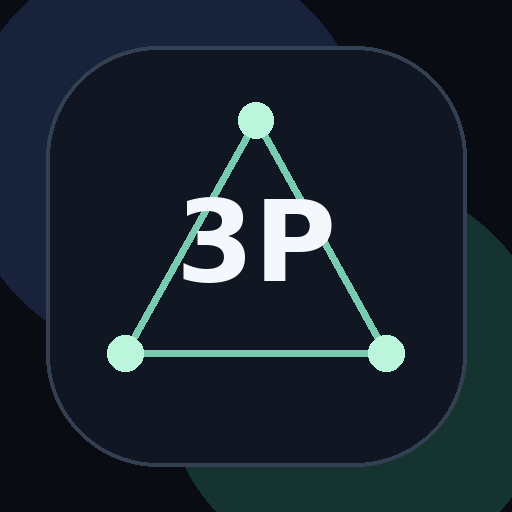
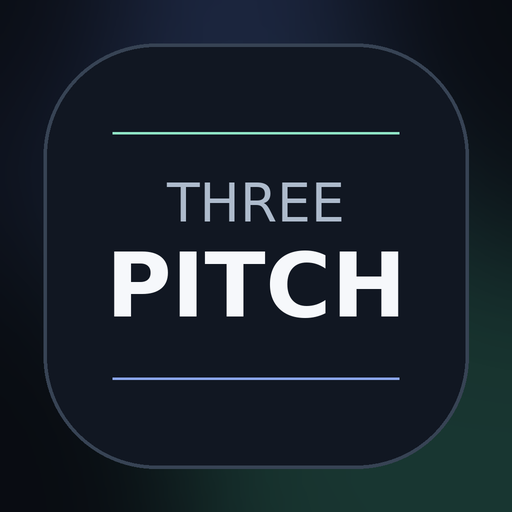
Add files via upload

diff --git a/style.css b/style.css
@@ -1,2 +1,8 @@
-:root{color-scheme:dark;--bg:#080a0f;--panel:rgba(20,25,35,.84);--line:rgba(255,255,255,.1);--line2:rgba(255,255,255,.22);--text:#f7f8fb;--muted:#929cad;--accent:#a9f0d2;--ink:#07110d;--shadow:0 28px 90px rgba(0,0,0,.42)}
-*{box-sizing:border-box}html{min-height:100%;background:var(--bg)}body{margin:0;min-height:100dvh;color:var(--text);font-family:-apple-system,BlinkMacSystemFont,"Segoe UI","Hiragino Sans","Yu Gothic UI",sans-serif;background:radial-gradient(circle at 15% 8%,rgba(136,167,255,.19),transparent 30%),radial-gradient(circle at 90% 92%,rgba(169,240,210,.13),transparent 34%),linear-gradient(150deg,#07090e,#111725 54%,#080a10);overscroll-behavior:none}button{font:inherit;color:inherit}.app{width:min(1120px,100%);min-height:100dvh;margin:auto;padding:max(24px,env(safe-area-inset-top)) clamp(14px,3.4vw,38px) max(26px,env(safe-area-inset-bottom));display:grid;grid-template-columns:minmax(0,1.15fr) minmax(0,.85fr);grid-template-areas:"brand brand" "chord melody" "chord result";gap:16px;align-content:center}.brand{grid-area:brand;display:flex;align-items:center;gap:16px;padding:0 4px 2px}.mini-logo{width:72px;height:72px;flex:none;border:1px solid var(--line2);border-radius:22px;background:linear-gradient(145deg,rgba(255,255,255,.11),rgba(255,255,255,.02)),rgba(255,255,255,.025);box-shadow:inset 0 1px 0 rgba(255,255,255,.1),var(--shadow);position:relative;display:grid;place-items:center;overflow:hidden}.mini-logo b{z-index:3;font-size:20px;letter-spacing:-.08em}.mini-logo i{position:absolute;width:6px;height:6px;border-radius:50%;background:var(--accent);box-shadow:0 0 18px rgba(169,240,210,.75)}.mini-logo i:nth-child(1){top:15px;left:50%;transform:translateX(-50%)}.mini-logo i:nth-child(2){bottom:15px;left:16px}.mini-logo i:nth-child(3){bottom:15px;right:16px}.mini-logo:before,.mini-logo:after{content:"";position:absolute;height:1px;width:42px;top:34px;left:15px;background:linear-gradient(90deg,transparent,rgba(169,240,210,.65),transparent)}.mini-logo:before{transform:rotate(60deg)}.mini-logo:after{transform:rotate(-60deg)}.brand-copy p{margin:0 0 5px;color:var(--accent);font-size:9px;font-weight:850;letter-spacing:.24em}.brand-copy h1{margin:0;font-size:clamp(30px,4.6vw,47px);line-height:.92;letter-spacing:-.05em}.brand-copy span{display:block;margin-top:8px;color:var(--muted);font-size:11px;letter-spacing:.17em}.control-card,.result-card{border:1px solid var(--line);border-radius:25px;background:linear-gradient(145deg,rgba(255,255,255,.075),rgba(255,255,255,.018)),var(--panel);box-shadow:inset 0 1px 0 rgba(255,255,255,.08),var(--shadow);backdrop-filter:blur(22px);-webkit-backdrop-filter:blur(22px)}.control-card{padding:clamp(17px,3vw,25px)}.chord-card{grid-area:chord}.melody-card{grid-area:melody}.section-title{display:flex;gap:12px;align-items:center;margin-bottom:17px}.section-title>span{width:35px;height:35px;display:grid;place-items:center;border:1px solid var(--line);border-radius:11px;background:rgba(255,255,255,.055);color:var(--accent);font-size:10px;font-weight:900}.section-title h2{margin:0;font-size:16px;letter-spacing:.13em}.section-title p{margin:3px 0 0;color:var(--muted);font-size:11px}.label{margin:0 0 9px;color:var(--muted);font-size:9px;font-weight:900;letter-spacing:.18em}.notes-grid{display:grid;grid-template-columns:repeat(6,minmax(0,1fr));gap:8px}.note-button,.choice-button,.decoration-button{border:1px solid var(--line);background:rgba(255,255,255,.035);border-radius:13px;cursor:pointer;-webkit-tap-highlight-color:transparent;transition:transform .11s ease,border-color .12s ease,background .12s ease,color .12s ease,box-shadow .12s ease}.note-button{min-height:46px;font-weight:800;font-size:13px}.choice-button{min-height:41px;padding:0 10px;font-size:11px;font-weight:780}.decoration-button{min-height:36px;padding:0 10px;font-size:10px;font-weight:760}.note-button:active,.choice-button:active,.decoration-button:active{transform:scale(.96)}.note-button:hover,.choice-button:hover,.decoration-button:hover{border-color:var(--line2)}.selected{color:var(--ink);border-color:rgba(169,240,210,.82);background:linear-gradient(135deg,#cef9e8,#96e6c4);box-shadow:0 10px 28px rgba(111,225,181,.18)}.split-row{display:grid;grid-template-columns:.72fr 1.28fr;gap:14px;padding-top:17px;margin-top:17px;border-top:1px solid var(--line)}.choice-grid{display:grid;gap:8px}.base-grid{grid-template-columns:repeat(2,minmax(0,1fr))}.shape-grid{grid-template-columns:repeat(3,minmax(0,1fr))}.decoration-label{padding-top:17px;margin-top:17px;border-top:1px solid var(--line)}.decoration-grid{display:grid;grid-template-columns:repeat(5,minmax(0,1fr));gap:7px}.summary{margin-top:17px;min-height:48px;padding:11px 14px;display:flex;align-items:center;justify-content:space-between;gap:12px;border:1px solid var(--line);border-radius:15px;background:rgba(0,0,0,.16)}.summary strong{white-space:nowrap;font-size:16px}.summary span{color:var(--muted);text-align:right;font-size:11px;line-height:1.4}.result-card{grid-area:result;min-height:270px;padding:24px;display:grid;place-items:center;align-content:center;position:relative;overflow:hidden;background:radial-gradient(circle at 50% 38%,rgba(169,240,210,.18),transparent 34%),linear-gradient(145deg,rgba(255,255,255,.08),rgba(255,255,255,.015)),rgba(27,34,47,.94)}.result-card:after{content:"";position:absolute;inset:16px;border:1px solid rgba(169,240,210,.12);border-radius:18px;pointer-events:none}.result-kicker{z-index:1;color:var(--muted);font-size:11px;font-weight:800;letter-spacing:.12em}.result-note{z-index:1;margin:8px 0 2px;font-size:clamp(76px,13vw,130px);line-height:.9;font-weight:900;letter-spacing:-.08em;text-shadow:0 0 42px rgba(169,240,210,.2)}.rule-chip{z-index:1;padding:5px 10px;border:1px solid rgba(169,240,210,.22);border-radius:999px;color:var(--accent);background:rgba(169,240,210,.06);font-size:9px;font-weight:850;letter-spacing:.14em}.maybe{z-index:1;width:min(420px,100%);margin-top:20px;padding-top:15px;border-top:1px solid var(--line);text-align:center}.maybe>span{display:block;margin-bottom:9px;color:var(--muted);font-size:10px;font-weight:800;letter-spacing:.12em}.maybe-notes{display:flex;flex-wrap:wrap;justify-content:center;gap:7px;min-height:32px}.maybe-note{min-width:36px;height:32px;padding:0 10px;display:inline-grid;place-items:center;border:1px solid var(--line);border-radius:10px;background:rgba(255,255,255,.045);color:#d7dce5;font-size:12px;font-weight:800}.maybe-empty{color:rgba(255,255,255,.28);font-size:18px;line-height:32px}@media(max-width:760px){.app{grid-template-columns:1fr;grid-template-areas:"brand" "chord" "melody" "result";align-content:start}.mini-logo{width:62px;height:62px;border-radius:19px}.brand-copy h1{font-size:32px}.notes-grid{grid-template-columns:repeat(4,minmax(0,1fr))}.split-row{grid-template-columns:1fr}.decoration-grid{grid-template-columns:repeat(3,minmax(0,1fr))}.result-card{min-height:255px}}@media(max-width:370px){.notes-grid{grid-template-columns:repeat(3,minmax(0,1fr))}.decoration-grid{grid-template-columns:repeat(2,minmax(0,1fr))}.summary{align-items:flex-start;flex-direction:column}.summary span{text-align:left}}@media(prefers-reduced-motion:reduce){*{transition:none!important}}
+
+:root{color-scheme:dark;--bg:#080a0f;--panel:rgba(20,25,35,.84);--line:rgba(255,255,255,.1);--line2:rgba(255,255,255,.22);--text:#f7f8fb;--muted:#929cad;--accent:#a9f0d2;--accent2:#88a7ff;--ink:#07110d;--shadow:0 28px 90px rgba(0,0,0,.42)}
+*{box-sizing:border-box}html{min-height:100%;background:var(--bg)}body{margin:0;min-height:100dvh;color:var(--text);font-family:-apple-system,BlinkMacSystemFont,"Segoe UI","Hiragino Sans","Yu Gothic UI",sans-serif;background:radial-gradient(circle at 15% 8%,rgba(136,167,255,.19),transparent 30%),radial-gradient(circle at 90% 92%,rgba(169,240,210,.13),transparent 34%),linear-gradient(150deg,#07090e,#111725 54%,#080a10);overscroll-behavior:none}button{font:inherit;color:inherit}.app{width:min(1120px,100%);min-height:100dvh;margin:auto;padding:max(24px,env(safe-area-inset-top)) clamp(14px,3.4vw,38px) max(26px,env(safe-area-inset-bottom));display:grid;grid-template-columns:minmax(0,1.15fr) minmax(0,.85fr);grid-template-areas:"brand brand" "chord melody" "chord result";gap:16px;align-content:center}.brand{grid-area:brand;display:flex;align-items:center;gap:16px;padding:0 4px 2px}.mini-logo{width:72px;height:72px;flex:none;border:1px solid var(--line2);border-radius:22px;background:linear-gradient(145deg,rgba(255,255,255,.11),rgba(255,255,255,.02)),rgba(255,255,255,.025);box-shadow:inset 0 1px 0 rgba(255,255,255,.1),var(--shadow);position:relative;display:grid;place-content:center;text-align:center;overflow:hidden}.mini-logo span,.mini-logo strong{position:relative;z-index:2;display:block}.mini-logo span{color:var(--muted);font-size:8px;font-weight:850;letter-spacing:.18em}.mini-logo strong{margin-top:4px;color:var(--text);font-size:15px;line-height:.92;font-weight:900;letter-spacing:-.035em}.mini-logo:before,.mini-logo:after{content:"";position:absolute;left:14px;right:14px;height:1px;background:linear-gradient(90deg,transparent,rgba(169,240,210,.58),transparent)}.mini-logo:before{top:17px}.mini-logo:after{bottom:17px}.brand-copy p{margin:0 0 5px;color:var(--accent);font-size:9px;font-weight:850;letter-spacing:.24em}.brand-copy h1{margin:0;font-size:clamp(30px,4.6vw,47px);line-height:.92;letter-spacing:-.05em}.brand-copy span{display:block;margin-top:8px;color:var(--muted);font-size:11px;letter-spacing:.17em}.control-card,.result-card{border:1px solid var(--line);border-radius:25px;background:linear-gradient(145deg,rgba(255,255,255,.075),rgba(255,255,255,.018)),var(--panel);box-shadow:inset 0 1px 0 rgba(255,255,255,.08),var(--shadow);backdrop-filter:blur(22px);-webkit-backdrop-filter:blur(22px)}.control-card{padding:clamp(17px,3vw,25px)}.chord-card{grid-area:chord}.melody-card{grid-area:melody}.section-title{display:flex;gap:12px;align-items:center;margin-bottom:17px}.section-title>span{width:35px;height:35px;display:grid;place-items:center;border:1px solid var(--line);border-radius:11px;background:rgba(255,255,255,.055);color:var(--accent);font-size:10px;font-weight:900}.section-title h2{margin:0;font-size:16px;letter-spacing:.13em}.section-title p{margin:3px 0 0;color:var(--muted);font-size:11px}.label{margin:0 0 9px;color:var(--muted);font-size:9px;font-weight:900;letter-spacing:.18em}.notes-grid{display:grid;grid-template-columns:repeat(6,minmax(0,1fr));gap:8px}.note-button,.choice-button,.decoration-button{border:1px solid var(--line);background:rgba(255,255,255,.035);border-radius:13px;cursor:pointer;-webkit-tap-highlight-color:transparent;transition:transform .11s ease,border-color .12s ease,background .12s ease,color .12s ease,box-shadow .12s ease}.note-button{min-height:46px;font-weight:800;font-size:13px}.choice-button{min-height:41px;padding:0 10px;font-size:11px;font-weight:780}.decoration-button{min-height:36px;padding:0 10px;font-size:10px;font-weight:760}.note-button:active,.choice-button:active,.decoration-button:active{transform:scale(.96)}.note-button:hover,.choice-button:hover,.decoration-button:hover{border-color:var(--line2)}.selected{color:var(--ink);border-color:rgba(169,240,210,.82);background:linear-gradient(135deg,#cef9e8,#96e6c4);box-shadow:0 10px 28px rgba(111,225,181,.18)}.split-row{display:grid;grid-template-columns:.72fr 1.28fr;gap:14px;padding-top:17px;margin-top:17px;border-top:1px solid var(--line)}.choice-grid{display:grid;gap:8px}.base-grid{grid-template-columns:repeat(2,minmax(0,1fr))}.shape-grid{grid-template-columns:repeat(3,minmax(0,1fr))}.decoration-label{padding-top:17px;margin-top:17px;border-top:1px solid var(--line)}.decoration-grid{display:grid;grid-template-columns:repeat(5,minmax(0,1fr));gap:7px}.summary{margin-top:17px;min-height:48px;padding:11px 14px;display:flex;align-items:center;justify-content:space-between;gap:12px;border:1px solid var(--line);border-radius:15px;background:rgba(0,0,0,.16)}.summary strong{white-space:nowrap;font-size:16px}.summary span{color:var(--muted);text-align:right;font-size:11px;line-height:1.4}
+.result-card{grid-area:result;min-height:310px;padding:clamp(20px,3vw,28px);display:grid;place-items:center;align-content:center;position:relative;overflow:hidden;background:radial-gradient(circle at 28% 36%,rgba(169,240,210,.17),transparent 28%),radial-gradient(circle at 72% 36%,rgba(136,167,255,.15),transparent 28%),linear-gradient(145deg,rgba(255,255,255,.08),rgba(255,255,255,.015)),rgba(27,34,47,.94)}.result-card:after{content:"";position:absolute;inset:16px;border:1px solid rgba(169,240,210,.12);border-radius:18px;pointer-events:none}.result-grid{position:relative;z-index:1;width:min(560px,100%);display:grid;grid-template-columns:1fr 1px 1fr;gap:clamp(16px,4vw,34px);align-items:center}.harmony-result{min-width:0;display:grid;justify-items:center;text-align:center}.result-divider{width:1px;height:128px;background:linear-gradient(transparent,var(--line2),transparent)}.result-kicker{color:var(--muted);font-size:10px;font-weight:800;letter-spacing:.1em;white-space:nowrap}.result-note{margin:10px 0 4px;font-size:clamp(64px,10vw,104px);line-height:.86;font-weight:900;letter-spacing:-.08em;text-shadow:0 0 42px rgba(169,240,210,.18)}.lower-result .result-note{text-shadow:0 0 42px rgba(136,167,255,.18)}.direction-label{color:rgba(255,255,255,.48);font-size:9px;font-weight:800;letter-spacing:.14em}.rule-chip{position:relative;z-index:1;margin-top:14px;padding:5px 10px;border:1px solid rgba(169,240,210,.22);border-radius:999px;color:var(--accent);background:rgba(169,240,210,.06);font-size:9px;font-weight:850;letter-spacing:.14em}.maybe{position:relative;z-index:1;width:min(560px,100%);margin-top:18px;padding-top:14px;border-top:1px solid var(--line);text-align:center}.maybe>span{display:block;margin-bottom:9px;color:var(--muted);font-size:10px;font-weight:800;letter-spacing:.12em}.maybe-notes{display:flex;flex-wrap:wrap;justify-content:center;gap:7px;min-height:32px}.maybe-note{min-width:36px;height:32px;padding:0 10px;display:inline-grid;place-items:center;border:1px solid var(--line);border-radius:10px;background:rgba(255,255,255,.045);color:#d7dce5;font-size:12px;font-weight:800}.maybe-empty{color:rgba(255,255,255,.28);font-size:18px;line-height:32px}
+@media(max-width:760px){.app{grid-template-columns:1fr;grid-template-areas:"brand" "chord" "melody" "result";align-content:start}.mini-logo{width:62px;height:62px;border-radius:19px}.brand-copy h1{font-size:32px}.notes-grid{grid-template-columns:repeat(4,minmax(0,1fr))}.split-row{grid-template-columns:1fr}.decoration-grid{grid-template-columns:repeat(3,minmax(0,1fr))}.result-card{min-height:300px}.result-grid{gap:14px}.result-note{font-size:clamp(60px,20vw,92px)}}
+@media(max-width:430px){.result-grid{grid-template-columns:1fr 1fr;gap:10px}.result-divider{display:none}.result-kicker{font-size:9px;letter-spacing:.04em}.result-note{font-size:clamp(58px,22vw,84px)}}
+@media(max-width:370px){.notes-grid{grid-template-columns:repeat(3,minmax(0,1fr))}.decoration-grid{grid-template-columns:repeat(2,minmax(0,1fr))}.summary{align-items:flex-start;flex-direction:column}.summary span{text-align:left}}
+@media(prefers-reduced-motion:reduce){*{transition:none!important}}

diff --git a/app.js b/app.js
@@ -13,7 +13,7 @@
 
   const $ = id => document.getElementById(id);
   const rootGrid=$("rootGrid"), baseGrid=$("baseGrid"), shapeGrid=$("shapeGrid"), decorationGrid=$("decorationGrid"), melodyGrid=$("melodyGrid");
-  const chordName=$("chordName"), chordTones=$("chordTones"), resultNote=$("resultNote"), maybeNotes=$("maybeNotes");
+  const chordName=$("chordName"), chordTones=$("chordTones"), upperResultNote=$("upperResultNote"), lowerResultNote=$("lowerResultNote"), maybeNotes=$("maybeNotes");
 
   let state = loadState();
 
@@ -30,6 +30,7 @@
       };
     }catch{return {...DEFAULT_STATE};}
   }
+
   function saveState(){localStorage.setItem(STORAGE_KEY,JSON.stringify(state));}
   function noteName(value){return NOTES[((value%12)+12)%12].name;}
 
@@ -91,7 +92,7 @@
 
     let third;
     if(sus4) third=5;
-    else if(dim) third=3; // Cdim is entered as Major + Dim, but Dim supplies b3.
+    else if(dim) third=3;
     else third=state.base==="minor"?3:4;
 
     let fifth=7;
@@ -116,16 +117,16 @@
   }
 
   const toPitch=interval=>(state.root+interval)%12;
-  function circularDistance(a,b){const up=(a-b+12)%12,down=(b-a+12)%12;return Math.min(up,down);}
-  const upwardDistance=(a,b)=>(a-b+12)%12;
+  const upwardDistance=(pitch,melody)=>(pitch-melody+12)%12;
+  const downwardDistance=(pitch,melody)=>(melody-pitch+12)%12;
 
-  function chooseMainHarmony(triad){
-    const withoutUnison=triad.filter(p=>p!==state.melody);
-    const candidates=withoutUnison.length?withoutUnison:triad;
-    return [...candidates].sort((a,b)=>{
-      const d=circularDistance(a,state.melody)-circularDistance(b,state.melody);
-      return d!==0?d:upwardDistance(a,state.melody)-upwardDistance(b,state.melody);
-    })[0];
+  function chooseDirectionalHarmony(triad,direction){
+    const distance=direction==="up"?upwardDistance:downwardDistance;
+    const candidates=triad
+      .map(pitch=>({pitch,distance:distance(pitch,state.melody)}))
+      .filter(item=>item.distance>0)
+      .sort((a,b)=>a.distance-b.distance||a.pitch-b.pitch);
+    return candidates[0]?.pitch??triad[0];
   }
 
   function buildChordLabel(){
@@ -146,16 +147,31 @@
   function renderResult(){
     const triad=[...new Set(baseIntervals().map(toPitch))];
     const extras=[...new Set(decorationIntervals().map(toPitch))];
-    const main=chooseMainHarmony(triad);
+    const upper=chooseDirectionalHarmony(triad,"up");
+    const lower=chooseDirectionalHarmony(triad,"down");
     const all=[...new Set([...triad,...extras])];
-    const alternatives=all.filter(p=>p!==main&&p!==state.melody).sort((a,b)=>circularDistance(a,state.melody)-circularDistance(b,state.melody));
+    const alternatives=all
+      .filter(p=>p!==upper&&p!==lower)
+      .sort((a,b)=>upwardDistance(a,state.root)-upwardDistance(b,state.root));
 
     chordName.textContent=buildChordLabel();
     chordTones.textContent=all.map(noteName).join(" · ");
-    resultNote.textContent=noteName(main);
+    upperResultNote.textContent=noteName(upper);
+    lowerResultNote.textContent=noteName(lower);
     maybeNotes.innerHTML="";
-    if(!alternatives.length){const x=document.createElement("span");x.className="maybe-empty";x.textContent="—";maybeNotes.appendChild(x);}
-    else alternatives.forEach(p=>{const x=document.createElement("span");x.className="maybe-note";x.textContent=noteName(p);maybeNotes.appendChild(x);});
+    if(!alternatives.length){
+      const x=document.createElement("span");
+      x.className="maybe-empty";
+      x.textContent="—";
+      maybeNotes.appendChild(x);
+    }else{
+      alternatives.forEach(p=>{
+        const x=document.createElement("span");
+        x.className="maybe-note";
+        x.textContent=noteName(p);
+        maybeNotes.appendChild(x);
+      });
+    }
   }
 
   function update(){saveState();renderSelectors();renderResult();}

diff --git a/index.html b/index.html
@@ -6,16 +6,19 @@
   <meta name="theme-color" content="#0b0e14">
   <meta name="apple-mobile-web-app-capable" content="yes">
   <meta name="apple-mobile-web-app-status-bar-style" content="black-translucent">
-  <meta name="apple-mobile-web-app-title" content="3PITCH">
+  <meta name="apple-mobile-web-app-title" content="THREE PITCH">
   <title>THREE PITCH</title>
   <link rel="manifest" href="./manifest.webmanifest">
   <link rel="apple-touch-icon" href="./icon-192.png">
-  <link rel="stylesheet" href="./style.css?v=1">
+  <link rel="stylesheet" href="./style.css?v=2">
 </head>
 <body>
   <main class="app">
     <header class="brand">
-      <div class="mini-logo" aria-hidden="true"><i></i><i></i><i></i><b>3P</b></div>
+      <div class="mini-logo" aria-hidden="true">
+        <span>THREE</span>
+        <strong>PITCH</strong>
+      </div>
       <div class="brand-copy">
         <p>SHORTEST HARMONY DETECTOR</p>
         <h1>THREE PITCH</h1>
@@ -45,14 +48,25 @@
     </section>
 
     <section class="result-card" aria-live="polite">
-      <div class="result-kicker">上3度（下5度）</div>
-      <div id="resultNote" class="result-note">E</div>
+      <div class="result-grid">
+        <article class="harmony-result upper-result">
+          <div class="result-kicker">上3度（下5度）</div>
+          <div id="upperResultNote" class="result-note">E</div>
+          <div class="direction-label">上の最短</div>
+        </article>
+        <div class="result-divider" aria-hidden="true"></div>
+        <article class="harmony-result lower-result">
+          <div class="result-kicker">下3度（上5度）</div>
+          <div id="lowerResultNote" class="result-note">G</div>
+          <div class="direction-label">下の最短</div>
+        </article>
+      </div>
       <div class="rule-chip">最短和音</div>
       <div class="maybe"><span>もしかして？</span><div id="maybeNotes" class="maybe-notes"></div></div>
     </section>
   </main>
 
-  <script src="./app.js?v=1"></script>
+  <script src="./app.js?v=2"></script>
   <script>if("serviceWorker" in navigator){addEventListener("load",()=>navigator.serviceWorker.register("./service-worker.js"));}</script>
 </body>
 </html>

diff --git a/service-worker.js b/service-worker.js
@@ -1,5 +1,5 @@
-const CACHE="three-pitch-v1";
-const ASSETS=["./","./index.html","./style.css?v=1","./app.js?v=1","./manifest.webmanifest","./icon-192.png","./icon-512.png"];
-self.addEventListener("install",e=>{e.waitUntil(caches.open(CACHE).then(c=>c.addAll(ASSETS)));self.skipWaiting();});
-self.addEventListener("activate",e=>{e.waitUntil(caches.keys().then(keys=>Promise.all(keys.filter(k=>k!==CACHE).map(k=>caches.delete(k)))));self.clients.claim();});
-self.addEventListener("fetch",e=>{if(e.request.method!=="GET")return;e.respondWith(fetch(e.request).then(r=>{const copy=r.clone();caches.open(CACHE).then(c=>c.put(e.request,copy));return r;}).catch(async()=>{const cached=await caches.match(e.request);if(cached)return cached;if(e.request.mode==="navigate")return caches.match("./index.html");throw new Error("Offline asset unavailable");}));});
+const CACHE = "three-pitch-v2";
+const ASSETS = ["./","./index.html","./style.css?v=2","./app.js?v=2","./manifest.webmanifest","./icon-192.png","./icon-512.png"];
+self.addEventListener("install",event=>{event.waitUntil(caches.open(CACHE).then(cache=>cache.addAll(ASSETS)));self.skipWaiting();});
+self.addEventListener("activate",event=>{event.waitUntil(caches.keys().then(keys=>Promise.all(keys.filter(key=>key!==CACHE).map(key=>caches.delete(key)))));self.clients.claim();});
+self.addEventListener("fetch",event=>{if(event.request.method!=="GET")return;event.respondWith(fetch(event.request).then(response=>{const copy=response.clone();caches.open(CACHE).then(cache=>cache.put(event.request,copy));return response;}).catch(async()=>{const cached=await caches.match(event.request);if(cached)return cached;if(event.request.mode==="navigate")return caches.match("./index.html");throw new Error("Offline asset unavailable");}));});

diff --git a/README.md b/README.md
@@ -1,20 +1,22 @@
 # THREE PITCH
 
-コードと主旋律の1音を選ぶだけで、三和音内の最短ハモを1音返すPWAです。
+コードと主旋律の1音を選ぶだけで、上下それぞれの最短ハモを一音ずつ返すPWAです。
 
 ## 判定
-- 本命：基本三和音のみで最短判定
-- 表示名：上3度（下5度）
-- 「もしかして？」：本命以外のコード構成音と装飾音
-- 装飾音は本命判定には使用しません
+- 上結果：基本三和音の中から、主旋律より上方向で最短の音
+- 下結果：基本三和音の中から、主旋律より下方向で最短の音
+- 表示名：上3度（下5度）／下3度（上5度）
+- 実際の判定は度数ではなく、上下それぞれの最短和音
+- 装飾音は本命判定には使用しない
+- 「もしかして？」には、上下の結果音以外の全コード構成音を表示
+- 主旋律がコードトーンなら、その音も「もしかして？」へ表示
+- 6th、7th、9thなどの装飾音も表示
 
 ## コード入力
 - ROOT：12音
 - BASE：Major / Minor
 - SHAPE：sus4 / Dim / Aug
 - DECORATION：6 / 7 / maj7 / dim7 / add9 / 9 / 11 / 13
-- MajorとMinorはどちらか一方
-- DimとAugは同時選択不可
 - m表記がないコードはMajorを選択
 - Cdimは Major + Dim
 - Caugは Major + Aug
